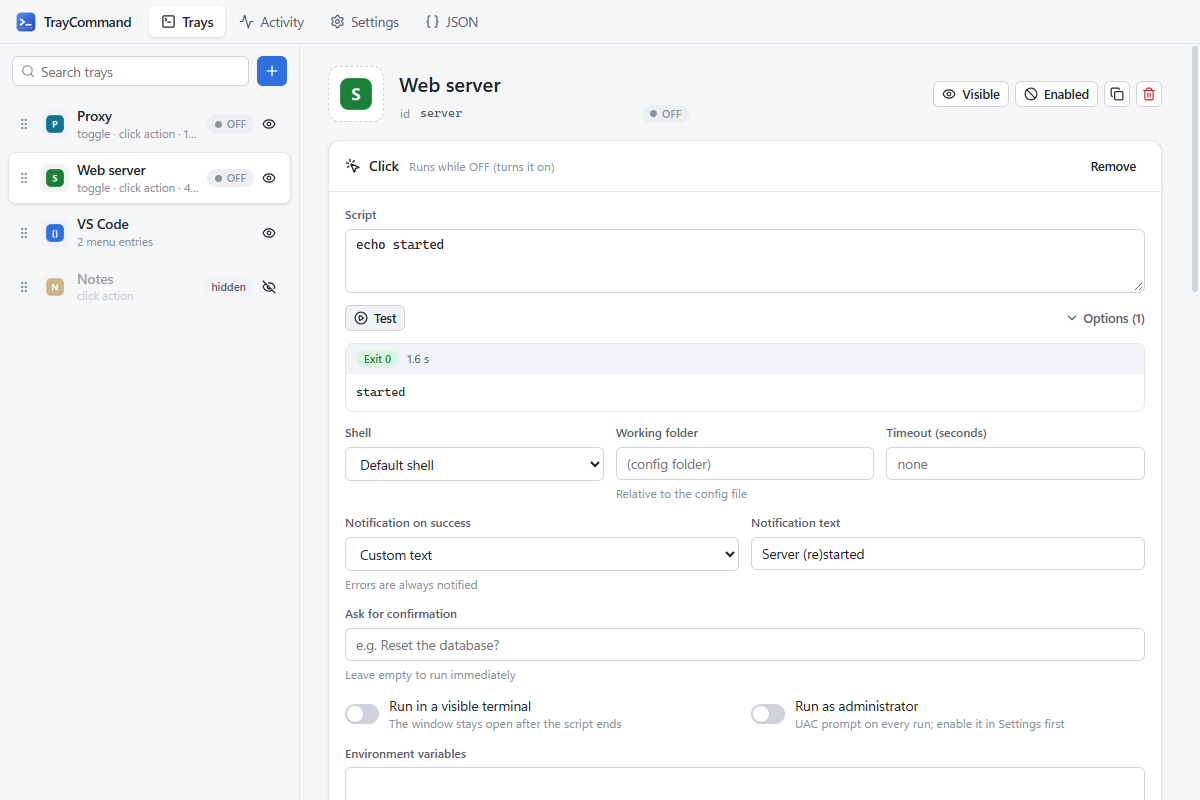
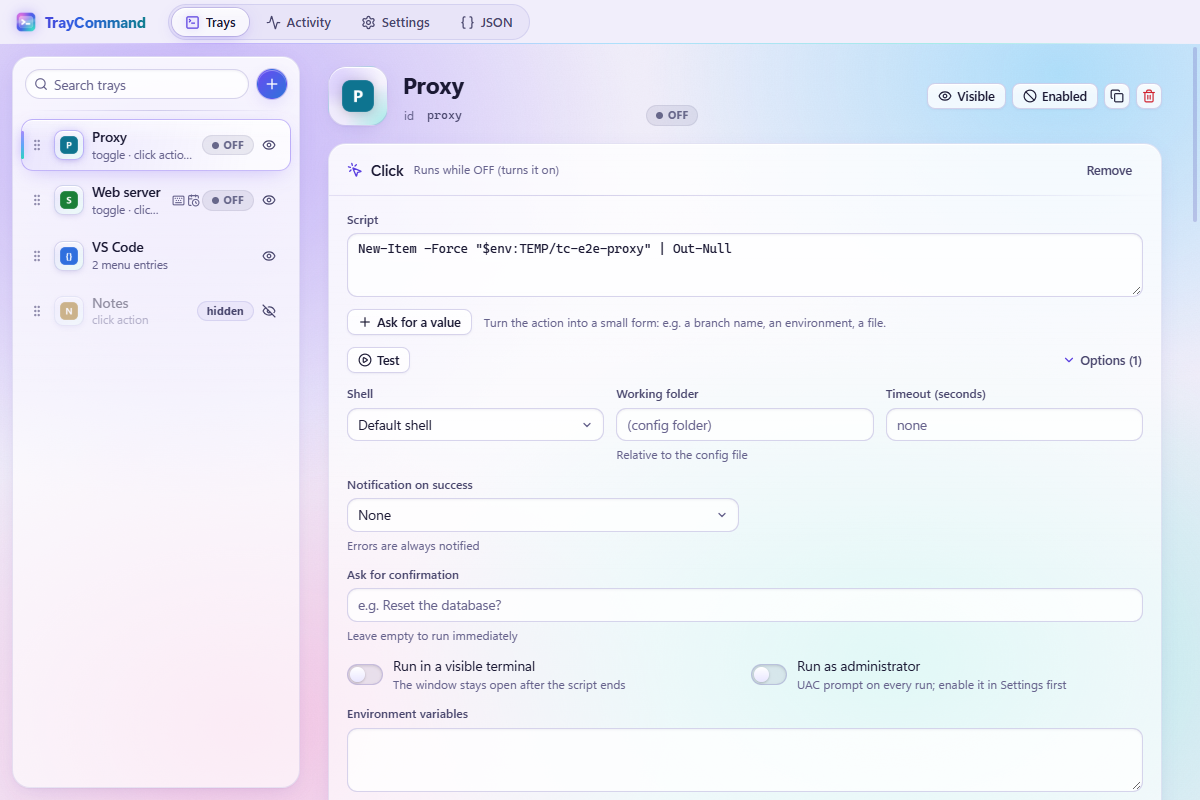
[develop] README: Aurora screenshots, the four looks, schedules and alerts, project layout and release flow

diff --git a/README.md b/README.md
@@ -2,32 +2,42 @@
 
 **Your commands, one click away.** TrayCommand puts tray icons on your desktop that run shell commands: open apps and projects, start and stop services, flip settings on and off — with a live ON/OFF state, menus and sub menus.
 
-![TrayCommand editor](.github/screenshots/editor.png)
+![TrayCommand editor in the Aurora look](.github/screenshots/editor.png)
 
 - **Toggles with a live state**: a check script decides whether an entry is ON or OFF; the icon and the menu follow it.
-- **Hide without deleting**, disable, reorder, duplicate.
 - **Keyboard launcher**: <kbd>Ctrl</kbd>+<kbd>Alt</kbd>+<kbd>Space</kbd>, type a few letters, <kbd>Enter</kbd>. Fuzzy search on every entry, recent first.
-- **Global shortcuts** for any entry, **forms** that ask for values before a command runs (text, choices, files, passwords), and **schedules** (cron, intervals, at startup, when files appear in a folder, within a time window, only if a check passes, after asking you with an alert).
-- **Four looks**: Aurora, Phosphor, Brutal, Neon HUD, each with its own icon, light or dark.
-- **Test any command from the editor** and see its output and exit code.
+- **Global shortcuts** for any entry, and **forms** that ask for values before a command runs (text, choices, files, passwords).
+- **Schedules**: at set times, at an interval, at startup or **when files appear in a folder**; within a time window, **only if a check passes**, after **asking you with an alert** that offers a few choices.
+- **Four looks**: Aurora (default), Phosphor, Brutal and Neon HUD, light or dark. Each restyles the whole app and has its own icon.
 - **Export and import**: share some trays, schedules, variables or settings (with their icons) as a file; on import see what changes and choose what to do with what is already there.
+- **Test any command from the editor** and see its output and exit code.
 - **Compose actions**: run other entries before, together with, or after an action.
+- **Hide without deleting**, disable, reorder, duplicate.
 - **Start at login without admin rights**: a shortcut in your Startup folder. No Task Scheduler, no registry.
 - **Ask your AI agent**: TrayCommand installs a skill for Claude Code and opencode, so you can just ask *"add a tray that starts my Docker stack"*.
 - **Per-user install and self update** from GitHub releases, verified with SHA-256.
 - Windows, Linux (AppImage) and macOS.
 
-![TrayCommand launcher](.github/screenshots/launcher.png)
-
 📖 **Documentation:** https://cristianociuti.github.io/traycommand/
 ⬇ **Download:** https://github.com/CristianoCiuti/traycommand/releases/latest
 
+![The launcher](.github/screenshots/launcher.png)
+
+## Four looks
+
+Choose one in **Settings → Look** (`"style"` in the settings). The window buttons, the taskbar icon, the TrayCommand tray icon and the Start menu shortcut follow it.
+
+![Aurora, Phosphor, Brutal and Neon HUD](.github/screenshots/looks.png)
+
 ## Configuration in a nutshell
+
+Everything lives in one JSON file, which you can edit in the app or by hand; the running app applies changes as soon as the file is saved.
 
 ```json
 {
   "$schema": "https://cristianociuti.github.io/traycommand/schema/v2/config.schema.json",
   "version": 2,
+  "settings": { "style": "aurora" },
   "trays": [
     {
       "id": "server",
@@ -36,7 +46,8 @@
       "state": { "check": "Get-Process nginx -ErrorAction SilentlyContinue", "iconOff": "icons/server-off.png" },
       "action": "Start-Process C:/nginx/nginx.exe -WorkingDirectory C:/nginx -WindowStyle Hidden",
       "offAction": "Stop-Process -Name nginx -Force",
-      "menu": [{ "label": "Edit nginx.conf", "action": "Start-Process notepad C:/nginx/conf/nginx.conf" }]
+      "menu": [{ "label": "Edit nginx.conf", "action": "Start-Process notepad C:/nginx/conf/nginx.conf" }],
+      "schedules": [{ "cron": "0 8 * * 1-5", "run": "on" }]
     }
   ]
 }
@@ -51,7 +62,7 @@ Requirements: Node.js 22+.
 ```bash
 npm install
 npm start            # build and run
-npm test             # unit tests (vitest)
+npm test             # unit tests with coverage (vitest; the build fails below 100% on the app logic)
 npm run test:e2e     # end-to-end tests on Electron (Playwright), screenshots in test-results/
 npm run package      # zip / AppImage / mac zip in packages/
 npm run site:dev     # documentation site
@@ -61,14 +72,19 @@ Project layout:
 
 | Folder | What |
 |---|---|
-| `src/shared` | configuration schema (zod → TypeScript types, validation, JSON Schema), shared API types |
-| `src/main` | Electron main process: engine, runner, trays, autostart, install, updates, elevation |
+| `src/shared` | configuration schema (zod → TypeScript types, validation, JSON Schema), schedules, export/import logic, shared API types |
+| `src/main` | Electron main process: engine, runner, trays, launcher, alerts, folder watches, export/import files, autostart, install, updates, elevation |
 | `src/preload` | the bridge exposed to the UI |
-| `src/ui` | editor UI (Preact + signals, Vite) |
-| `site` | documentation (VitePress), published on GitHub Pages |
-| `scripts` | build, icons, JSON Schema, 1.x converter |
+| `src/ui` | editor and launcher UI (Preact + signals, Vite) |
+| `src/ui/themes` | the four looks, one self-contained folder each (`tokens.css`, `styles.css`, `launcher.css`) |
+| `assets` | app icons (one per look) and the macOS tray template |
+| `site` | documentation (VitePress, Aurora theme), published on GitHub Pages |
+| `skill` | the TrayCommand skill for AI agents |
+| `scripts` | build, icons, JSON Schema, look audit, 1.x converter |
 
-Releases: bump `version` in `package.json`, add the notes to `site/changelog.md`, then push a tag `vX.Y.Z`. The `Release` workflow builds every platform and publishes the release with `SHA256SUMS`.
+Tests: `test/unit` (logic, 100% coverage required) and `test/e2e` (`app`, `launcher`, `looks`, `transfer` run in CI on Windows; `packaged` checks a built executable with `TC_EXE`).
+
+Branches and releases: work happens on `develop` (with `version` in `package.json` and the notes in `site/changelog.md` updated there). A release merges `develop` into `main` and pushes the tag `vX.Y.Z`: the `Release` workflow builds every platform and publishes the release with `SHA256SUMS`, and pushing `main` publishes the documentation.
 
 ## License
 
